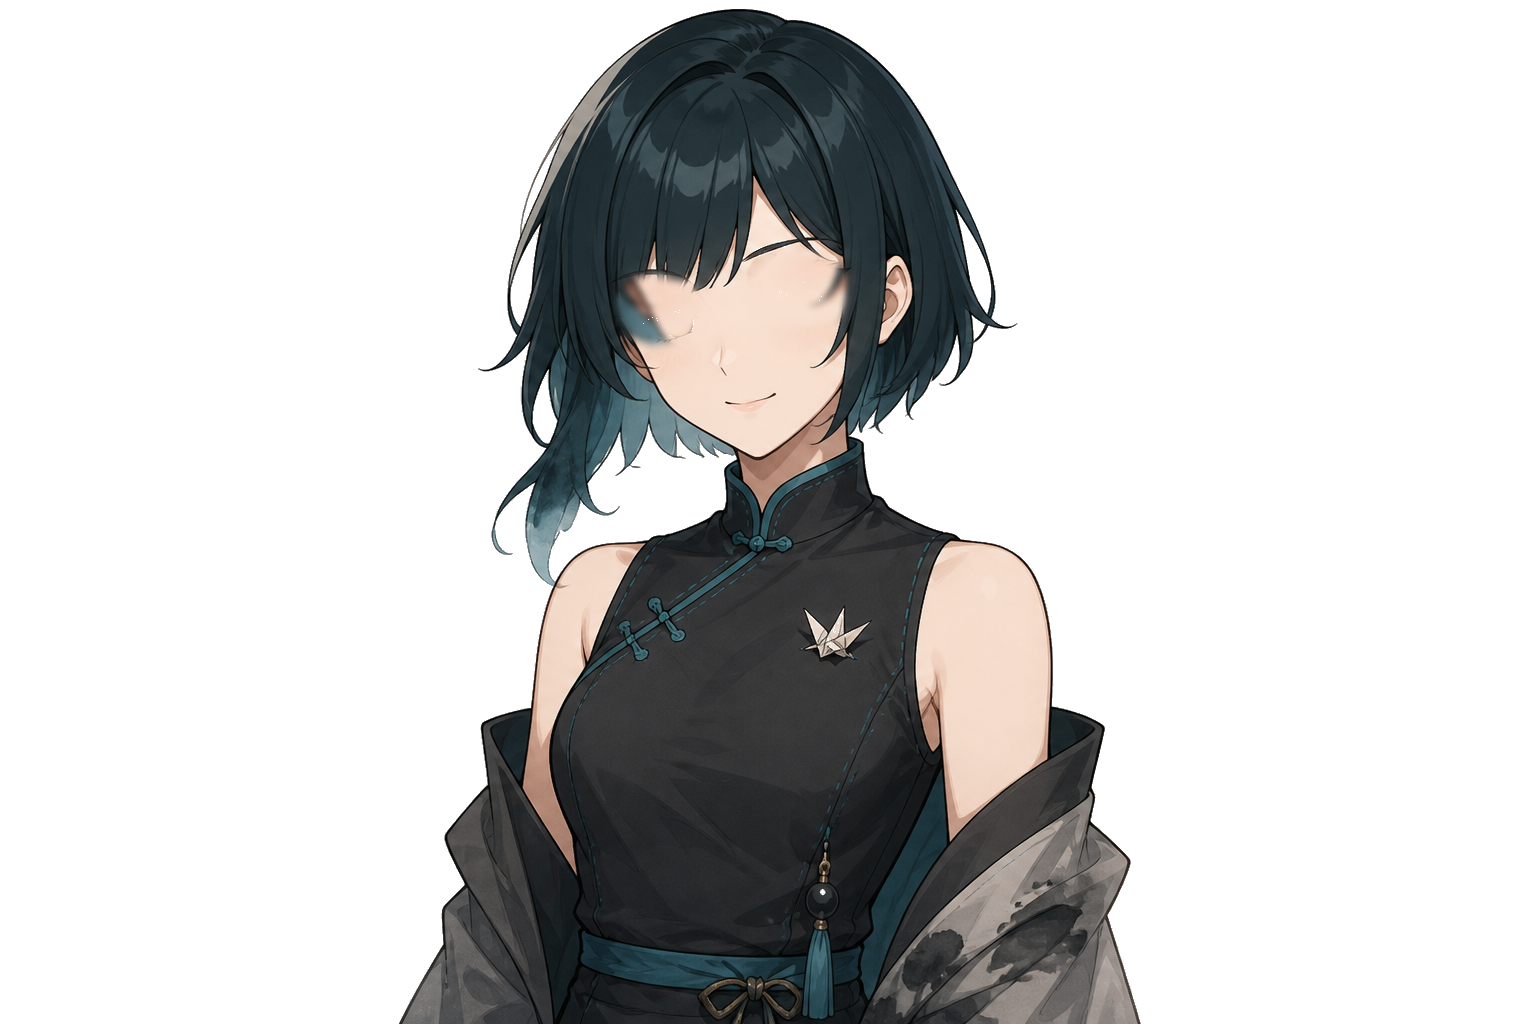
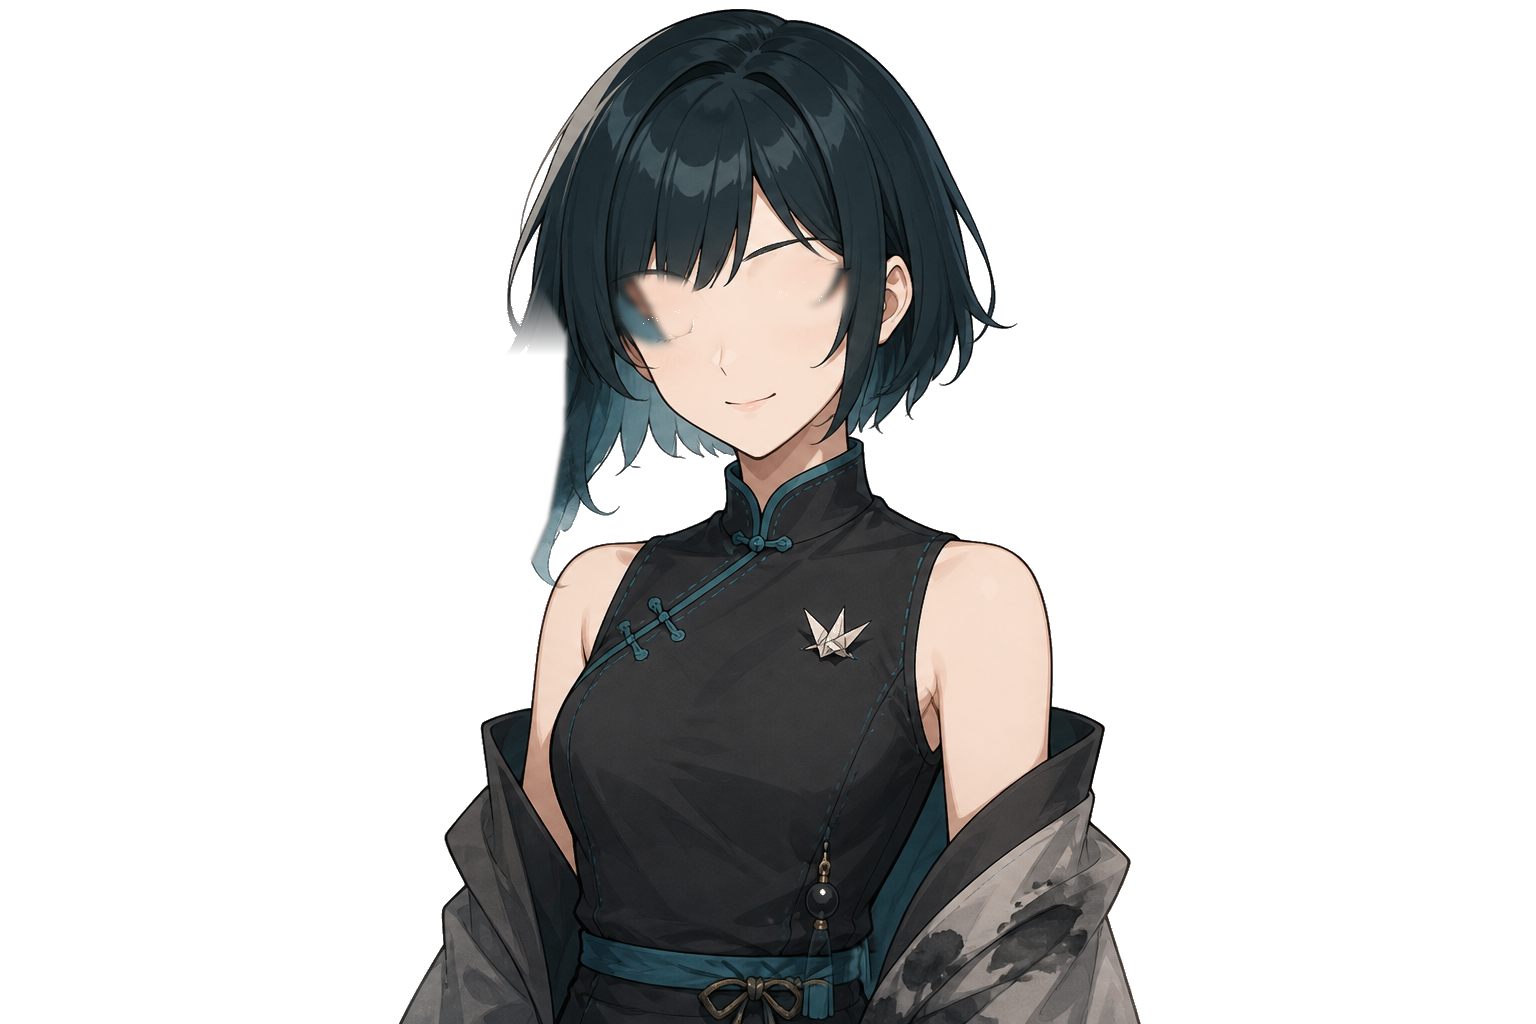
Add spring physics to Moxi hair and tassel

Changed region(s): [[0.3125, 0.2812, 0.375, 0.5312], [0.5, 0.9062, 0.5625, 0.9688]]

diff --git a/src/moxiRig.ts b/src/moxiRig.ts
@@ -8,6 +8,8 @@ const ASSETS = {
   base: "/characters/moxi/portrait-rig/base.png",
   eyeLeft: "/characters/moxi/portrait-rig/eye_left.png",
   eyeRight: "/characters/moxi/portrait-rig/eye_right.png",
+  hairLock: "/characters/moxi/portrait-rig/hair_lock.png",
+  tassel: "/characters/moxi/portrait-rig/tassel.png",
 } as const;
 
 const FACE = {
@@ -21,6 +23,8 @@ type LoadedAssets = {
   base: HTMLImageElement;
   eyeLeft: HTMLImageElement;
   eyeRight: HTMLImageElement;
+  hairLock: HTMLImageElement;
+  tassel: HTMLImageElement;
 };
 
 function loadImage(src: string): Promise<HTMLImageElement> {
@@ -63,6 +67,11 @@ export class MoxiRigViewer {
   private targetLookX = 0;
   private targetLookY = 0;
   private mouthOpen = 0;
+  private lastFrameAt = 0;
+  private hairAngle = 0;
+  private hairVelocity = 0;
+  private tasselAngle = 0;
+  private tasselVelocity = 0;
   private readonly handlePointer: (event: PointerEvent) => void;
   private readonly handlePointerLeave: () => void;
   private readonly handleResize: () => void;
@@ -87,10 +96,14 @@ export class MoxiRigViewer {
     this.handlePointer = (event: PointerEvent) => {
       const bounds = this.canvas.getBoundingClientRect();
       if (bounds.width === 0 || bounds.height === 0) return;
-      this.targetLookX = Math.max(
+      const nextLookX = Math.max(
         -1,
         Math.min(1, ((event.clientX - bounds.left) / bounds.width - 0.5) * 2),
       );
+      const directionChange = nextLookX - this.targetLookX;
+      this.hairVelocity -= directionChange * 0.055;
+      this.tasselVelocity -= directionChange * 0.08;
+      this.targetLookX = nextLookX;
       this.targetLookY = Math.max(
         -1,
         Math.min(1, ((event.clientY - bounds.top) / bounds.height - 0.5) * 2),
@@ -105,21 +118,24 @@ export class MoxiRigViewer {
 
   async load(): Promise<{ expressions: string[]; motions: string[] }> {
     this.onStatus("正在加载墨汐肖像网格…", "info");
-    const [base, eyeLeft, eyeRight] = await Promise.all([
+    const [base, eyeLeft, eyeRight, hairLock, tassel] = await Promise.all([
       loadImage(ASSETS.base),
       loadImage(ASSETS.eyeLeft),
       loadImage(ASSETS.eyeRight),
+      loadImage(ASSETS.hairLock),
+      loadImage(ASSETS.tassel),
     ]);
-    this.assets = { base, eyeLeft, eyeRight };
+    this.assets = { base, eyeLeft, eyeRight, hairLock, tassel };
     this.resize();
     this.canvas.addEventListener("pointermove", this.handlePointer);
     this.canvas.addEventListener("pointerleave", this.handlePointerLeave);
     window.addEventListener("resize", this.handleResize);
     this.running = true;
     this.startedAt = performance.now();
+    this.lastFrameAt = this.startedAt;
     this.frameId = requestAnimationFrame(this.renderFrame);
     this.onStatus(
-      "墨汐重制版已加载\n完整原画保持不变；局部眨眼、细微转头和口型在脸上连续变形。\n表情：neutral / smile / surprise。",
+      "墨汐重制版已加载\n局部眨眼、头部透视和口型连续变形；发梢与流苏有独立弹性。\n表情：neutral / smile / surprise。",
       "ok",
     );
     return {
@@ -136,6 +152,9 @@ export class MoxiRigViewer {
 
   playMotion(_group: string): void {
     this.targetLookX = this.targetLookX === 0 ? 0.35 : -this.targetLookX;
+    const direction = this.targetLookX >= 0 ? 1 : -1;
+    this.hairVelocity -= direction * 0.13;
+    this.tasselVelocity -= direction * 0.2;
   }
 
   destroy(): void {
@@ -160,10 +179,13 @@ export class MoxiRigViewer {
   private readonly renderFrame = (now: number) => {
     if (!this.running || !this.assets) return;
     const seconds = (now - this.startedAt) / 1000;
+    const frameDelta = Math.min(2, Math.max(0.25, (now - this.lastFrameAt) / 16.67));
+    this.lastFrameAt = now;
     this.lookX += (this.targetLookX - this.lookX) * 0.075;
     this.lookY += (this.targetLookY - this.lookY) * 0.075;
     const mouthTarget = this.expression === "surprise" ? 1 : 0;
     this.mouthOpen += (mouthTarget - this.mouthOpen) * 0.12;
+    this.updatePhysics(seconds, frameDelta);
 
     this.composePortrait({
       blink: blinkAmount(seconds),
@@ -178,6 +200,7 @@ export class MoxiRigViewer {
     const context = this.portraitCtx;
     context.clearRect(0, 0, PORTRAIT_WIDTH, PORTRAIT_HEIGHT);
     context.drawImage(this.assets.base, 0, 0);
+    this.drawSecondaryPhysics();
 
     const smileSquint = this.expression === "smile" ? 0.86 : 1;
     const surpriseOpen = this.expression === "surprise" ? 1.06 : 1;
@@ -192,6 +215,44 @@ export class MoxiRigViewer {
       this.drawClosedEyes(1 - eyeScaleY / 0.18);
     }
     this.drawExpression(state.seconds);
+  }
+
+  private updatePhysics(seconds: number, frameDelta: number): void {
+    const hairTarget = -this.lookX * 0.22 + Math.sin(seconds * 0.85) * 0.1;
+    this.hairVelocity +=
+      (hairTarget - this.hairAngle) * 0.065 * frameDelta;
+    this.hairVelocity *= Math.pow(0.86, frameDelta);
+    this.hairAngle += this.hairVelocity * frameDelta;
+
+    const tasselTarget =
+      -this.lookX * 0.28 + Math.sin(seconds * 1.15 + 0.7) * 0.14;
+    this.tasselVelocity +=
+      (tasselTarget - this.tasselAngle) * 0.045 * frameDelta;
+    this.tasselVelocity *= Math.pow(0.9, frameDelta);
+    this.tasselAngle += this.tasselVelocity * frameDelta;
+  }
+
+  private drawSecondaryPhysics(): void {
+    if (!this.assets) return;
+    const context = this.portraitCtx;
+
+    context.save();
+    context.globalAlpha = 1;
+    context.translate(526, 292);
+    context.rotate(this.hairAngle);
+    context.translate(-526, -292);
+    context.translate(this.hairAngle * 85, Math.abs(this.hairAngle) * 14);
+    context.drawImage(this.assets.hairLock, 0, 0);
+    context.restore();
+
+    context.save();
+    context.globalAlpha = 1;
+    context.translate(819, 658);
+    context.rotate(this.tasselAngle);
+    context.translate(-819, -658);
+    context.translate(this.tasselAngle * 52, Math.abs(this.tasselAngle) * 10);
+    context.drawImage(this.assets.tassel, 0, 0);
+    context.restore();
   }
 
   private drawEye(
@@ -241,6 +302,16 @@ export class MoxiRigViewer {
     if (this.expression === "smile") {
       const pulse = (Math.sin(seconds * 2.1) + 1) * 0.5;
       context.save();
+      const leftBlush = context.createRadialGradient(631, 357, 2, 631, 357, 31);
+      leftBlush.addColorStop(0, "rgba(224, 119, 121, 0.15)");
+      leftBlush.addColorStop(1, "rgba(224, 119, 121, 0)");
+      context.fillStyle = leftBlush;
+      context.fillRect(596, 327, 70, 60);
+      const rightBlush = context.createRadialGradient(855, 343, 2, 855, 343, 29);
+      rightBlush.addColorStop(0, "rgba(224, 119, 121, 0.13)");
+      rightBlush.addColorStop(1, "rgba(224, 119, 121, 0)");
+      context.fillStyle = rightBlush;
+      context.fillRect(822, 314, 66, 58);
       context.strokeStyle = `rgba(112, 54, 62, ${0.3 + pulse * 0.15})`;
       context.lineWidth = 2.2;
       context.lineCap = "round";

diff --git a/src/presets.ts b/src/presets.ts
@@ -14,7 +14,7 @@ export const MODEL_PRESETS = [
     id: "moxi-rig",
     label: "墨汐（肖像网格 · 重制版）",
     url: "/characters/moxi/portrait-rig/base.png",
-    note: "保留完整原画，只对眼睛、嘴和头部网格做局部变形；自动眨眼、指针转头，避免贴纸感。",
+    note: "保留完整原画，局部变形眼睛、嘴和头部；发梢与流苏使用弹簧惯性，避免整张海报一起晃。",
     kind: "ours-rig",
   },
   {

diff --git a/docs/07-our-character-moxi.md b/docs/07-our-character-moxi.md
@@ -60,5 +60,7 @@ npm run fetch-core && npm run dev
 - 转头用 64 条连续图像带做轻量透视，左右眼有近大远小
 - surprise 口型尺寸受控，并有皮肤渐变过渡
 - 呼吸只影响胸肩区域，不再让整张海报大幅摇摆
+- 青色侧发与腰间流苏从静态底图中拆出，使用弹簧惯性；方向变化后会滞后、过冲并回弹
+- smile 同时收窄眼睛并给脸颊增加轻微暖色，不只改一条嘴线
 
-这版没有黑眼洞、圆形遮罩或切片裂缝。它仍不是高规格 Cubism 成品：嘴角不会牵动脸颊，头发和衣服也没有独立物理。Cubism moc3 保留作 SDK 对照。
+这版没有黑眼洞、圆形遮罩或切片裂缝。它仍不是高规格 Cubism 成品：嘴角不会牵动脸颊，目前也只有一束侧发和一条流苏具备独立物理。Cubism moc3 保留作 SDK 对照。

diff --git a/README.md b/README.md
@@ -18,6 +18,7 @@ npm run dev
 - 眼睛局部变形，自动眨眼
 - 指针驱动视线与头部透视
 - `neutral` / `smile` / `surprise` 平滑切换
+- 青色侧发与腰间流苏有独立弹簧惯性
 
 Haru 仍留在预设里，仅作播放器对照。
 
